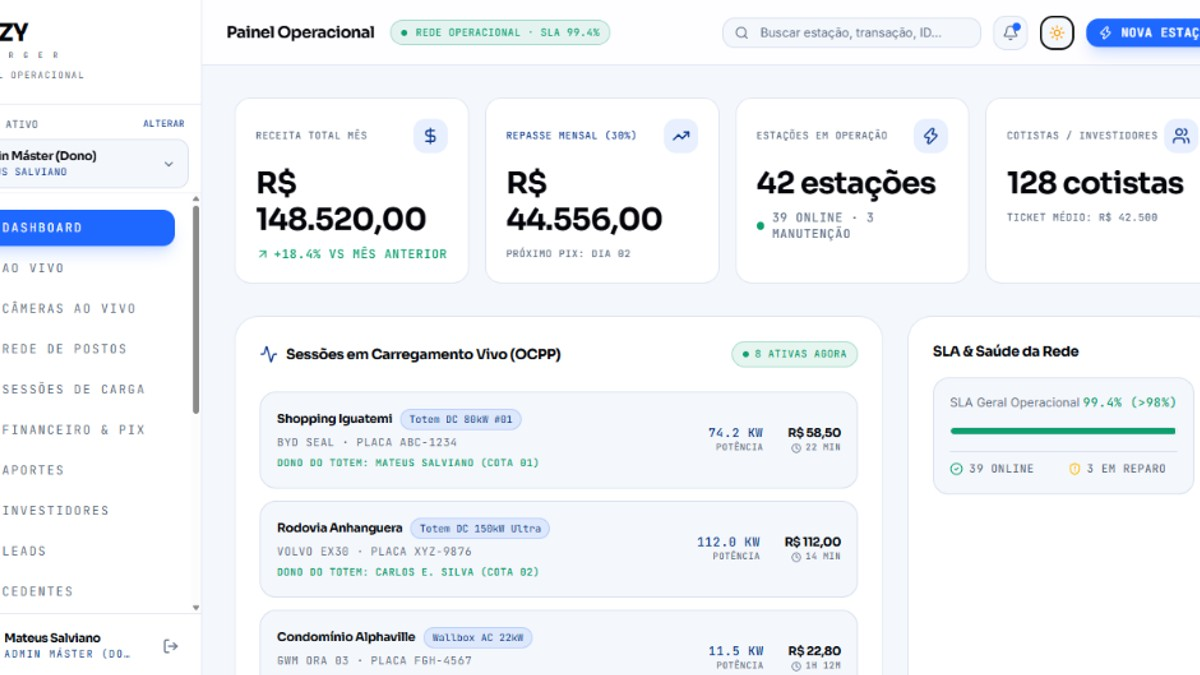
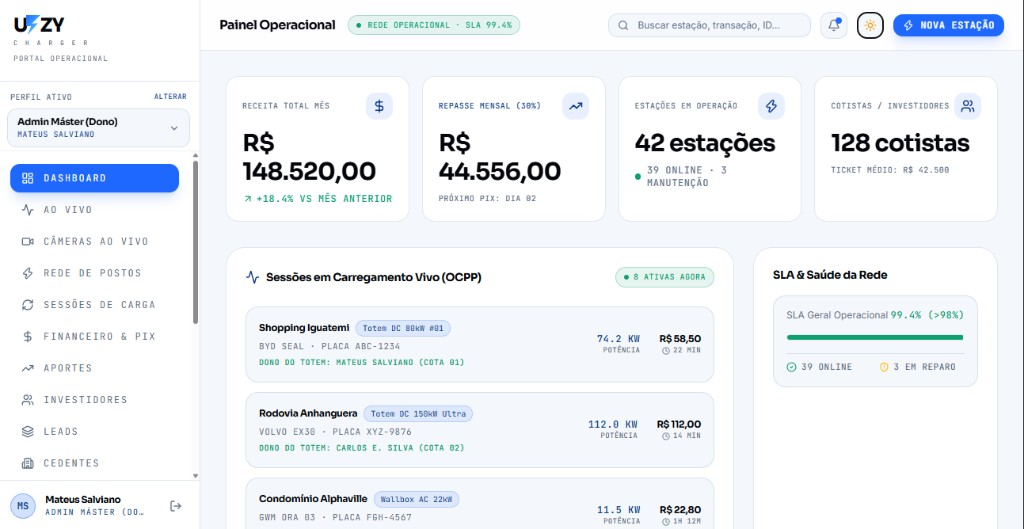
fix: posiciona texto explorar projeto à direita, adiciona slides na pagina de projetos e atualiza capa prototipo-ia-SEI

diff --git a/src/components/sections/DetailedProjectsList.tsx b/src/components/sections/DetailedProjectsList.tsx
@@ -8,6 +8,56 @@ type DetailedProjectsListProps = {
   repos: GitHubRepo[];
 };
 
+const ProjectMediaPreview = ({ repo }: { repo: GitHubRepo }) => {
+  const imageList = repo.images && repo.images.length > 0 ? repo.images : (repo.image ? [repo.image] : []);
+  const [activeIdx, setActiveIdx] = React.useState(0);
+
+  React.useEffect(() => {
+    if (imageList.length <= 1) return;
+    const interval = setInterval(() => {
+      setActiveIdx((prev) => (prev + 1) % imageList.length);
+    }, 2000);
+    return () => clearInterval(interval);
+  }, [imageList.length]);
+
+  return (
+    <div className="relative aspect-video rounded-3xl overflow-hidden glass-premium shadow-2xl border border-white/50 dark:border-slate-800 group-hover:scale-[1.01] transition-all duration-500">
+      {imageList.length > 0 ? (
+        <>
+          {imageList.map((imgSrc, imgI) => (
+            <img 
+              key={imgSrc}
+              src={imgSrc} 
+              alt={`${repo.name} ${imgI + 1}`} 
+              className={`absolute inset-0 w-full h-full object-cover group-hover:scale-105 transition-all duration-700 ease-out ${
+                imgI === activeIdx ? 'opacity-100 scale-100 z-10' : 'opacity-0 scale-95 pointer-events-none z-0'
+              }`}
+              loading="lazy"
+            />
+          ))}
+          {imageList.length > 1 && (
+            <div className="absolute bottom-4 left-1/2 -translate-x-1/2 z-20 flex gap-2 px-3 py-1.5 rounded-full bg-slate-950/60 backdrop-blur-md">
+              {imageList.map((_, dotI) => (
+                <span
+                  key={dotI}
+                  className={`h-2 rounded-full transition-all duration-300 ${
+                    dotI === activeIdx ? 'w-6 bg-blue-400' : 'w-2 bg-white/40'
+                  }`}
+                />
+              ))}
+            </div>
+          )}
+        </>
+      ) : (
+        <div className="w-full h-full bg-slate-100 dark:bg-slate-900 flex items-center justify-center">
+          <CodeIcon className="w-20 h-20 text-slate-300 dark:text-slate-700" />
+        </div>
+      )}
+      <div className="absolute inset-0 bg-gradient-to-t from-slate-950/60 via-transparent to-transparent opacity-0 group-hover:opacity-100 transition-opacity duration-300 z-15" />
+    </div>
+  );
+};
+
 export const DetailedProjectsList = ({ repos }: DetailedProjectsListProps) => (
   <div className="min-h-screen pt-32 pb-20 px-4 sm:px-6 max-w-5xl mx-auto">
     <div className="mb-16">
@@ -35,21 +85,7 @@ export const DetailedProjectsList = ({ repos }: DetailedProjectsListProps) => (
           <section key={idx} className="reveal active group">
             <div className="grid lg:grid-cols-2 gap-10 lg:gap-16 items-start">
               {/* Media Preview */}
-              <div className="relative aspect-video rounded-3xl overflow-hidden glass-premium shadow-2xl border border-white/50 dark:border-slate-800 group-hover:scale-[1.01] transition-all duration-500">
-                {repo.image ? (
-                  <img 
-                    src={repo.image} 
-                    alt={repo.name} 
-                    className="w-full h-full object-cover group-hover:scale-105 transition-transform duration-700 ease-out" 
-                    loading="lazy"
-                  />
-                ) : (
-                  <div className="w-full h-full bg-slate-100 dark:bg-slate-900 flex items-center justify-center">
-                    <CodeIcon className="w-20 h-20 text-slate-300 dark:text-slate-700" />
-                  </div>
-                )}
-                <div className="absolute inset-0 bg-gradient-to-t from-slate-950/60 via-transparent to-transparent opacity-0 group-hover:opacity-100 transition-opacity duration-300" />
-              </div>
+              <ProjectMediaPreview repo={repo} />
 
               {/* Data & Content */}
               <div className="flex flex-col">

diff --git a/src/components/ProjectCard.tsx b/src/components/ProjectCard.tsx
@@ -79,9 +79,9 @@ export const ProjectCard = ({ repo, set, idx }: ProjectCardProps) => {
         <p className="text-xs sm:text-sm text-slate-600 dark:text-slate-400 line-clamp-2 leading-relaxed flex-1">
           {repo.description ?? 'Projeto desenvolvido por Ranyeri Klennes com foco em arquitetura e soluções técnicas.'}
         </p>
-        <div className="flex justify-between items-center mt-3 pt-3 border-t border-slate-100 dark:border-slate-800/80">
+        <div className="flex justify-end items-center gap-2 mt-3 pt-3 border-t border-slate-100 dark:border-slate-800/80">
           <span className="text-[11px] font-semibold text-slate-400 group-hover:text-blue-600 dark:group-hover:text-blue-400 transition-colors">
-            Explorar projeto →
+            Explorar projeto
           </span>
           <a 
             href={repo.html_url} 
